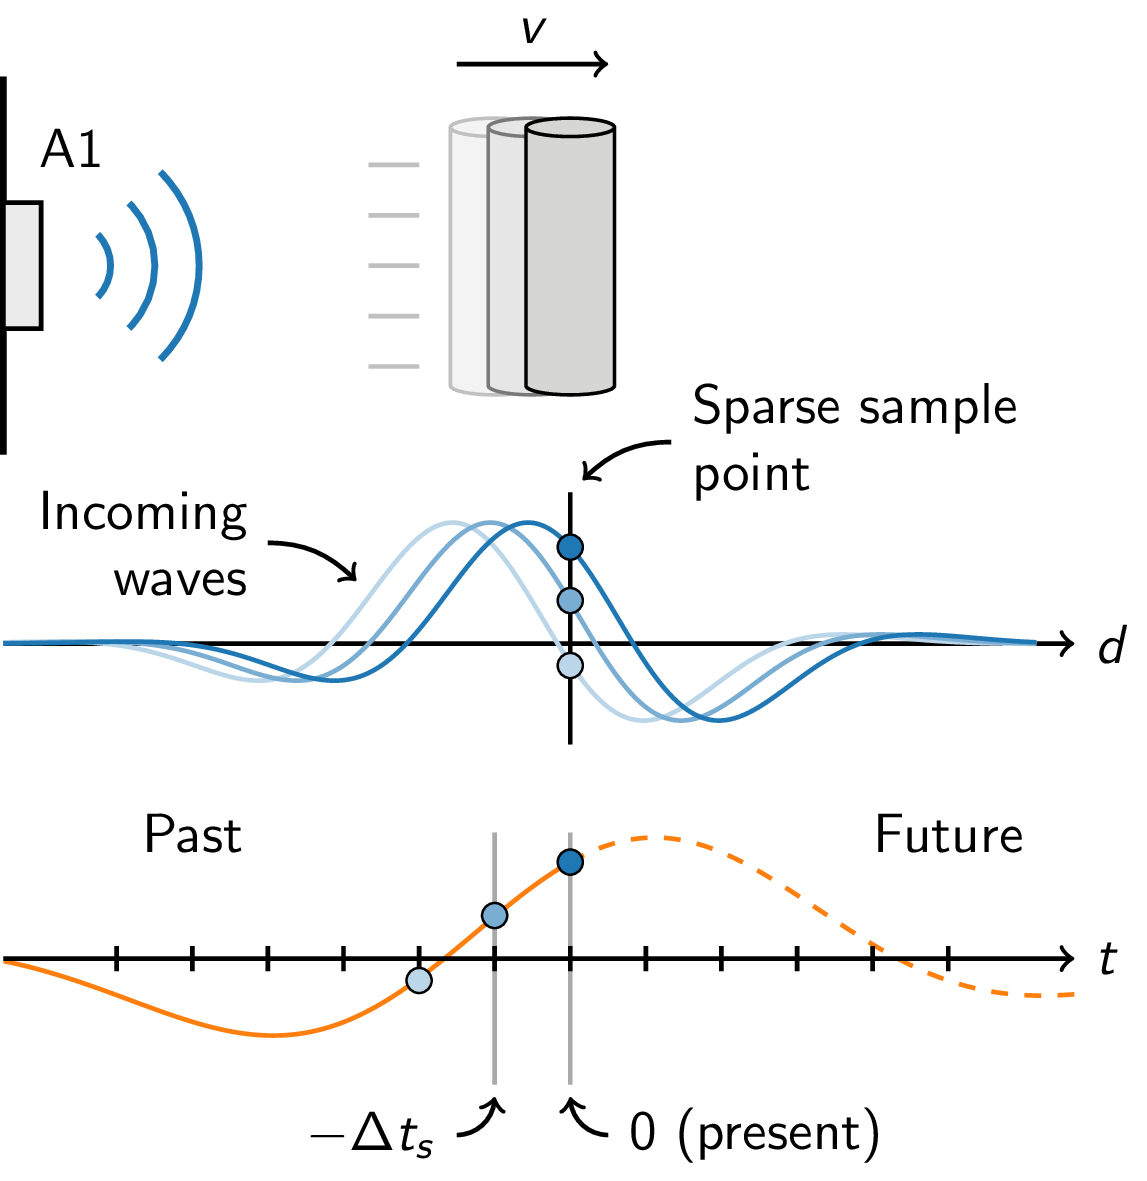
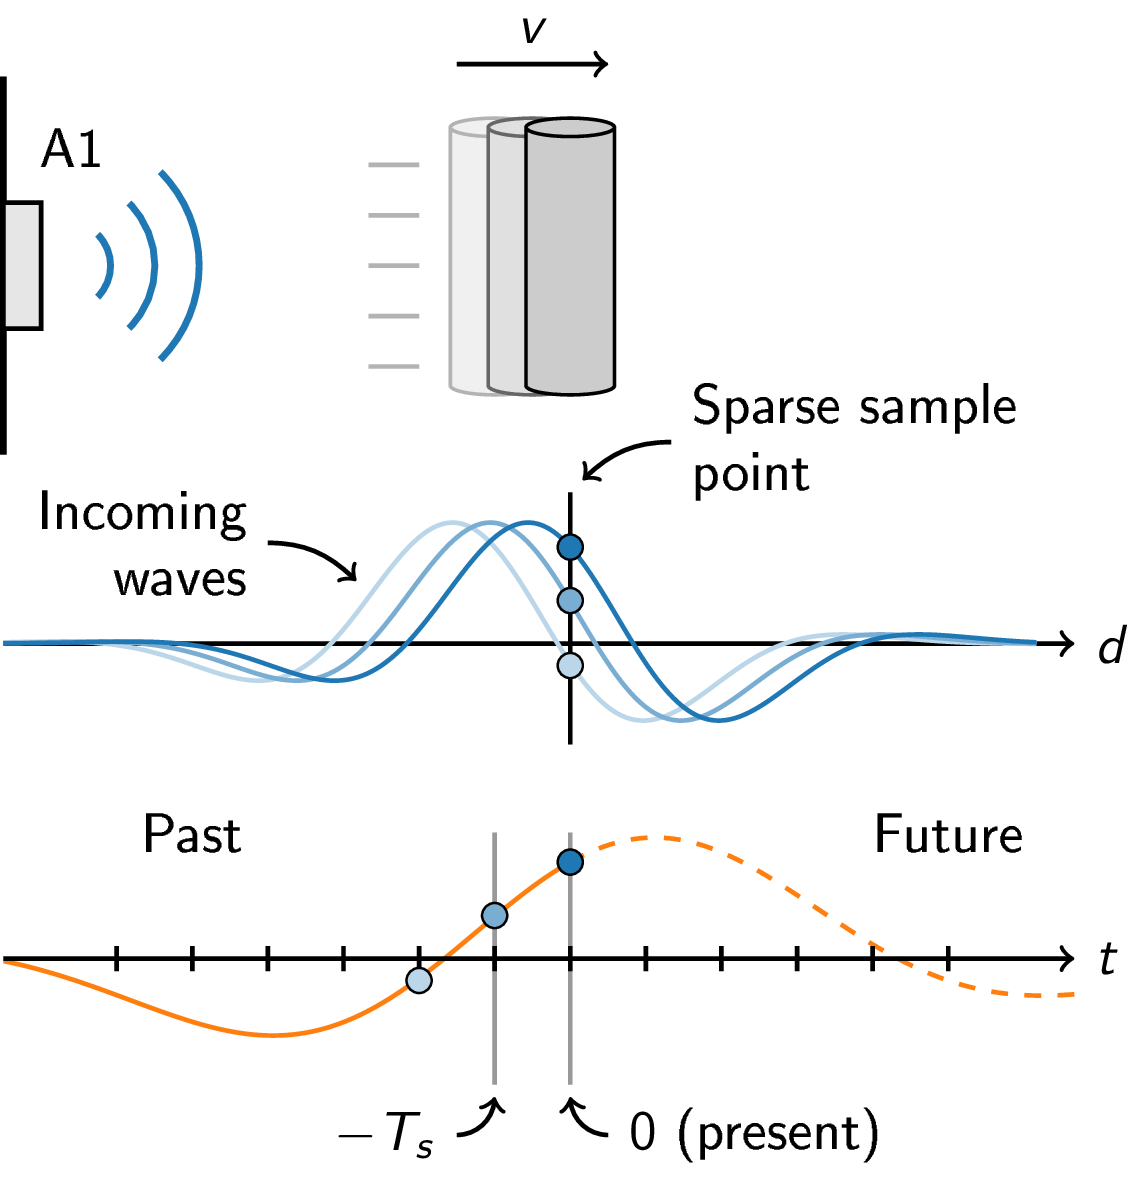
docs: Update notation

diff --git a/docs/_tikz/src/sparse/over_time.tex b/docs/_tikz/src/sparse/over_time.tex
@@ -63,7 +63,7 @@
 \draw [thick, <-] (4.5, -8)++(0, -0.1) to [out=270, in=180] ++(0.3, -0.3) node[black, right]{$0$ (present)};
 
 \draw [thick, black!40] (4.5-0.6, -6) -- ++(0, -2.0);
-\draw [thick, <-] (4.5-0.6, -8)++(0, -0.1) to [out=270, in=0] ++(-0.3, -0.3) node[black, left]{$-\Delta t_s$};
+\draw [thick, <-] (4.5-0.6, -8)++(0, -0.1) to [out=270, in=0] ++(-0.3, -0.3) node[black, left]{$-T_s$};
 
 \draw [thick, ->] (0, -7) -- ++(8.5, 0) node[right]{$t$};
 

diff --git a/docs/_tikz/src/sparse/sweeps_and_frames.tex b/docs/_tikz/src/sparse/sweeps_and_frames.tex
@@ -67,10 +67,10 @@
 
 % x curlys
 \draw [very thick, decoration={brace, mirror, raise=5pt}, decorate] (1, 0) -- (2, 0);
-\node [right] at (1, -0.75) {$\Delta t_s = 1/f_s$};
+\node [right] at (1, -0.75) {$T_s = 1/f_s$};
 
 \draw [very thick, decoration={brace, mirror, raise=2pt}, decorate] (1, -1.0) -- (7.5, -1.0);
-\node [right] at (3.75, -1.7) {$\Delta t_f = 1/f_f$};
+\node [right] at (3.75, -1.7) {$T_f = 1/f_f$};
 
 \end{tikzpicture}
 \end{document}

diff --git a/docs/services/sparse.rst b/docs/services/sparse.rst
@@ -29,7 +29,7 @@ The bottom plot lays out the sampled points over a time scale. In this simple ex
 
    An illustration of the sparse data frames consisting of a number of sweeps.
 
-From sparse, every received data frame consists of a number of sweeps :math:`N_s` which are sampled after each other. Every sweep consists of one or several (sparse) sampling points in distance as configured. Depending on the configuration, the time between sweeps :math:`\Delta t_s` may vary. It can also, within certain limits, be set to a fixed value. Often, we refer to this as the *sweep rate* :math:`f_s=1/\Delta t_s` instead of referring to the time between sweeps :math:`\Delta t_s`.
+From sparse, every received data frame consists of a number of sweeps :math:`N_s` which are sampled after each other. Every sweep consists of one or several (sparse) sampling points in distance as configured. Depending on the configuration, the time between sweeps :math:`T_s` may vary. It can also, within certain limits, be set to a fixed value. Often, we refer to this as the *sweep rate* :math:`f_s=1/T_s` instead of referring to the time between sweeps :math:`T_s`.
 
 Typical sweep rates range between 1 and 50 kHz. On the other hand, typical frame (update) rates :math:`f_f` range between 1 and 200 Hz. Therefore, there often is a large gap between the end of a frame to the beginning of the next one. From a power consumption perspective, this is desirable since it allows the sensor to have a smaller duty cycle. However, if needed, the sparse service can be configured for a near 100% duty cycle.
 

diff --git a/docs/sensor_introduction.rst b/docs/sensor_introduction.rst
@@ -550,7 +550,7 @@ Sweep and update rate
 
 A sweep is defined as a distance measurement range, starting at the distance *start range* and continues for *sweep length*. Hence, every sweep consists of one or several distance sampling points.
 
-A number of sweeps :math:`N_s` are sampled after each other and the time between each sweep is :math:`\Delta t_s`, which is configurable. We usually refer to this as the *update rate* :math:`f_s=1/\Delta t_s`.
+A number of sweeps :math:`N_s` are sampled after each other and the time between each sweep is :math:`T_s`, which is configurable. We usually refer to this as the *update rate* :math:`f_s=1/T_s`.
 
 In addition, the sparse service introduces a concept of frames defined `here <https://acconeer-python-exploration.readthedocs.io/en/latest/services/sparse.html>`__.
 
